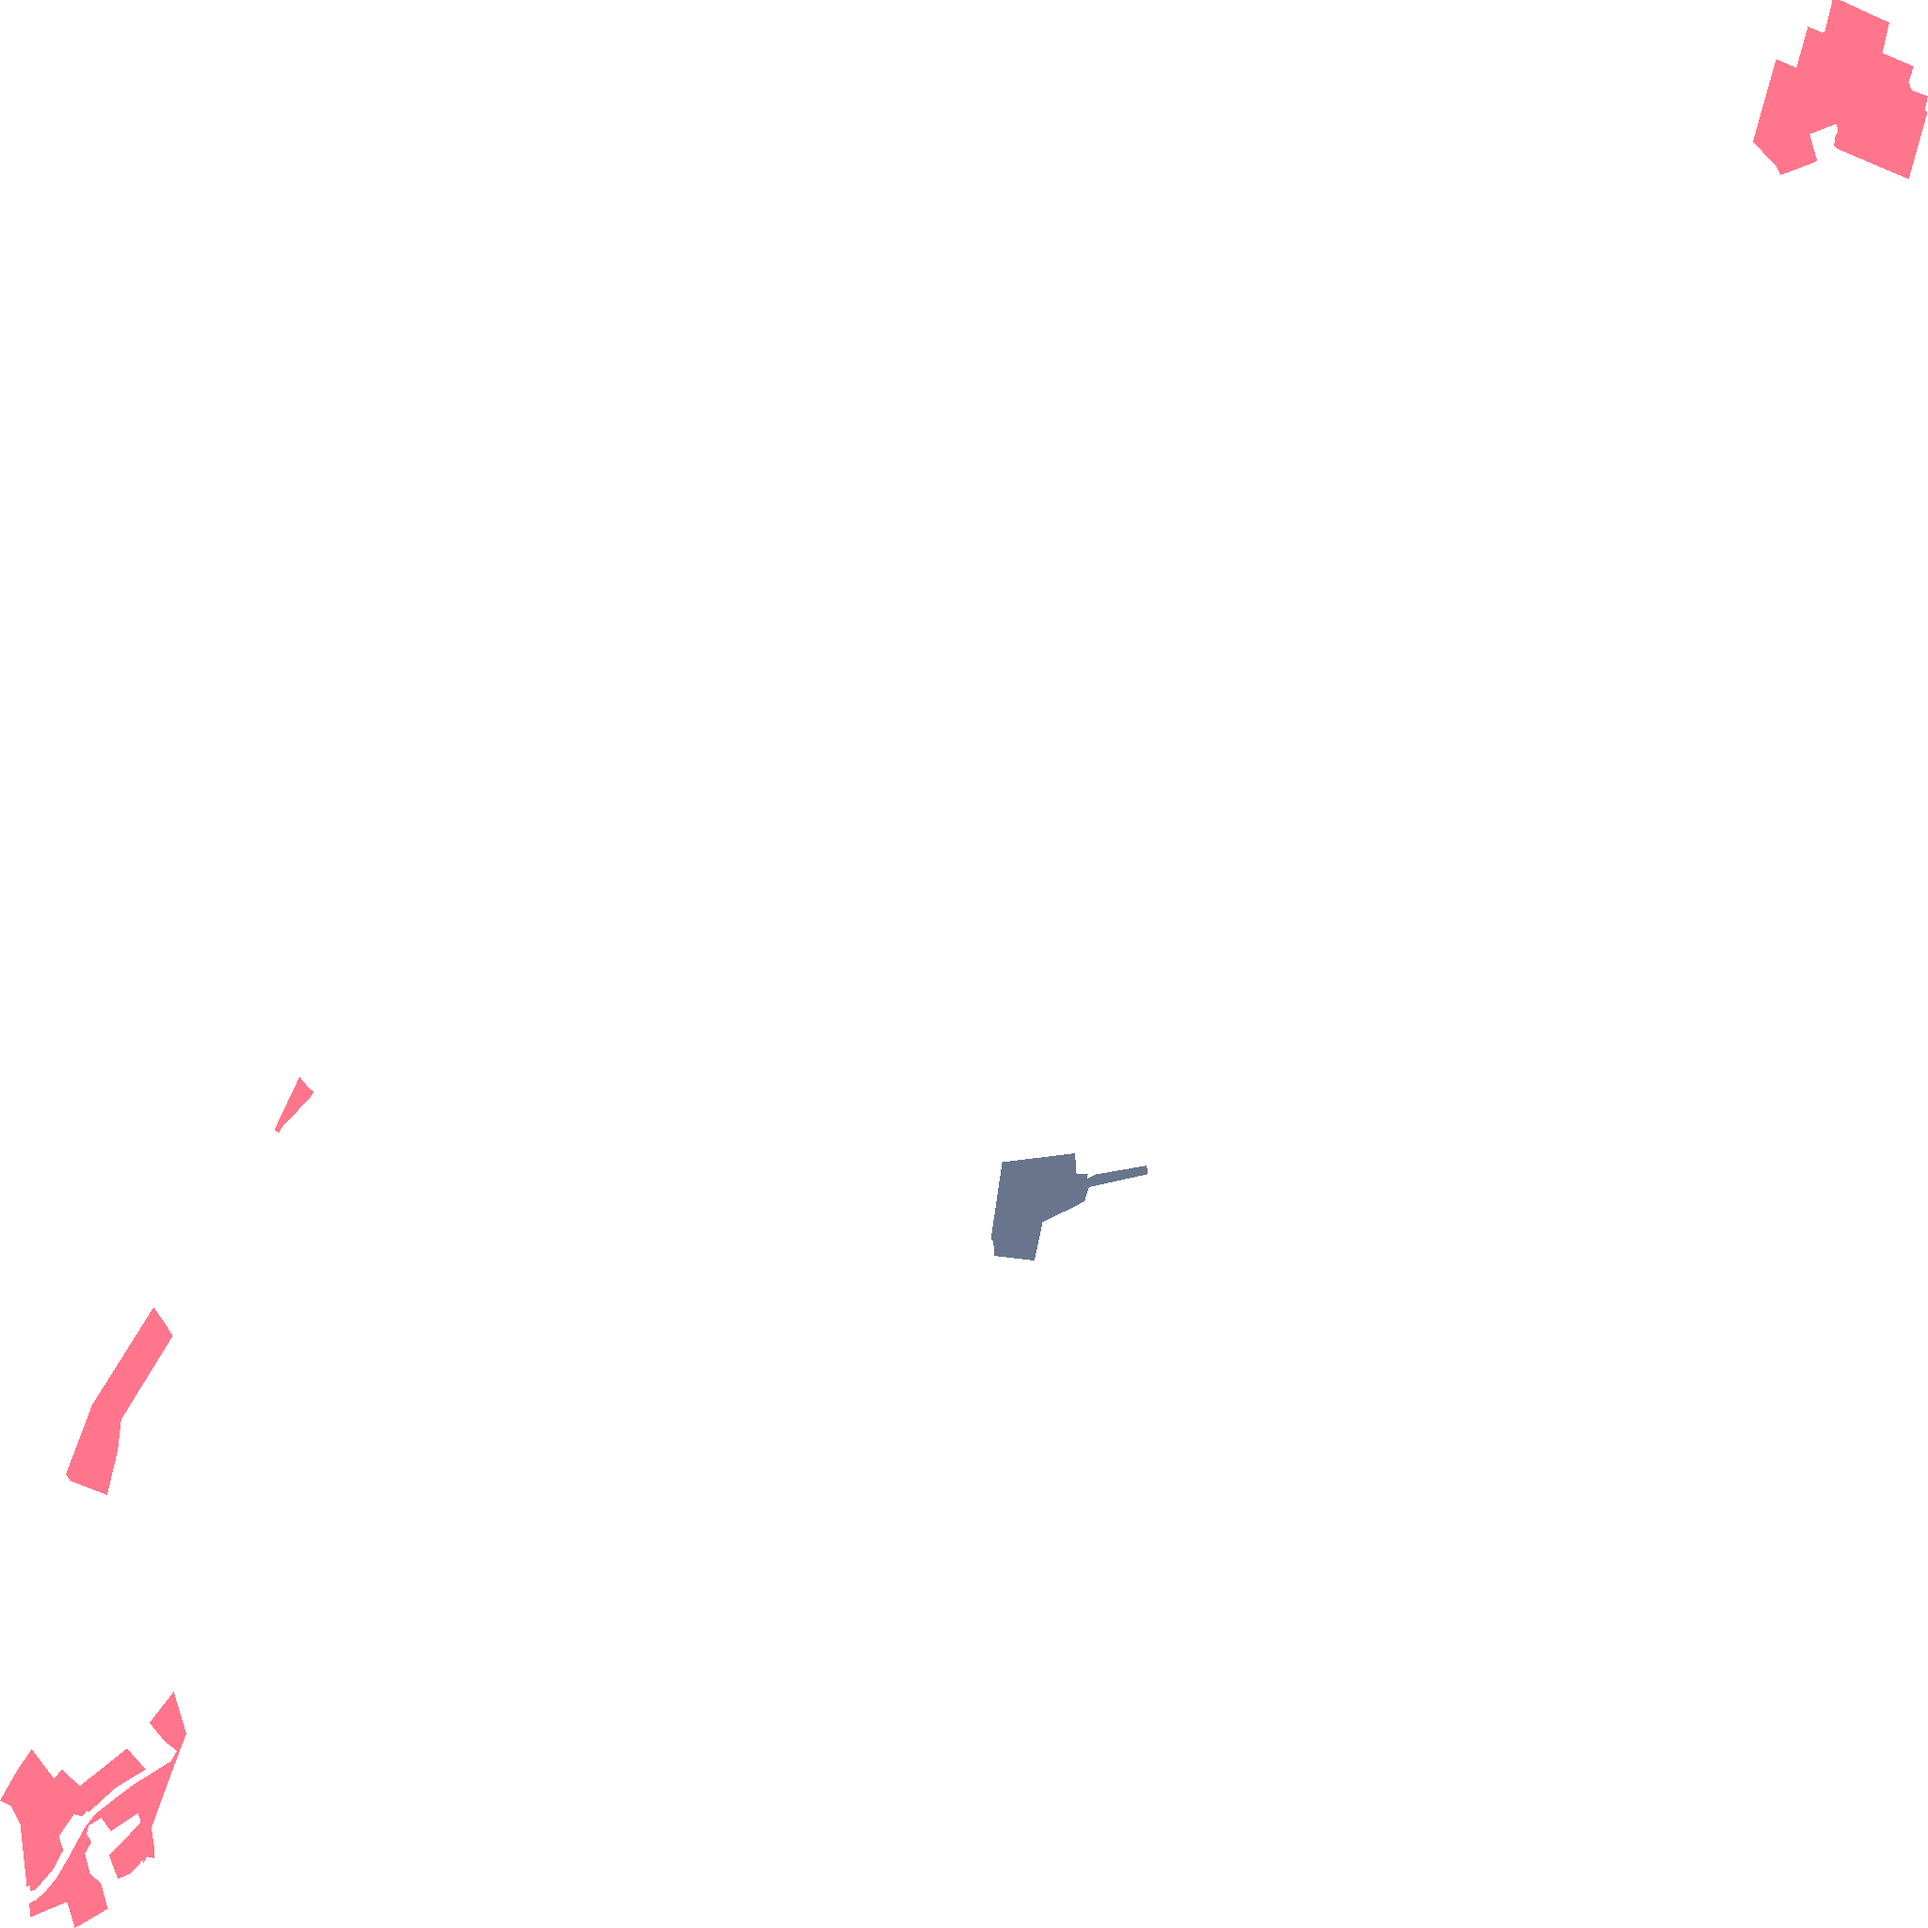
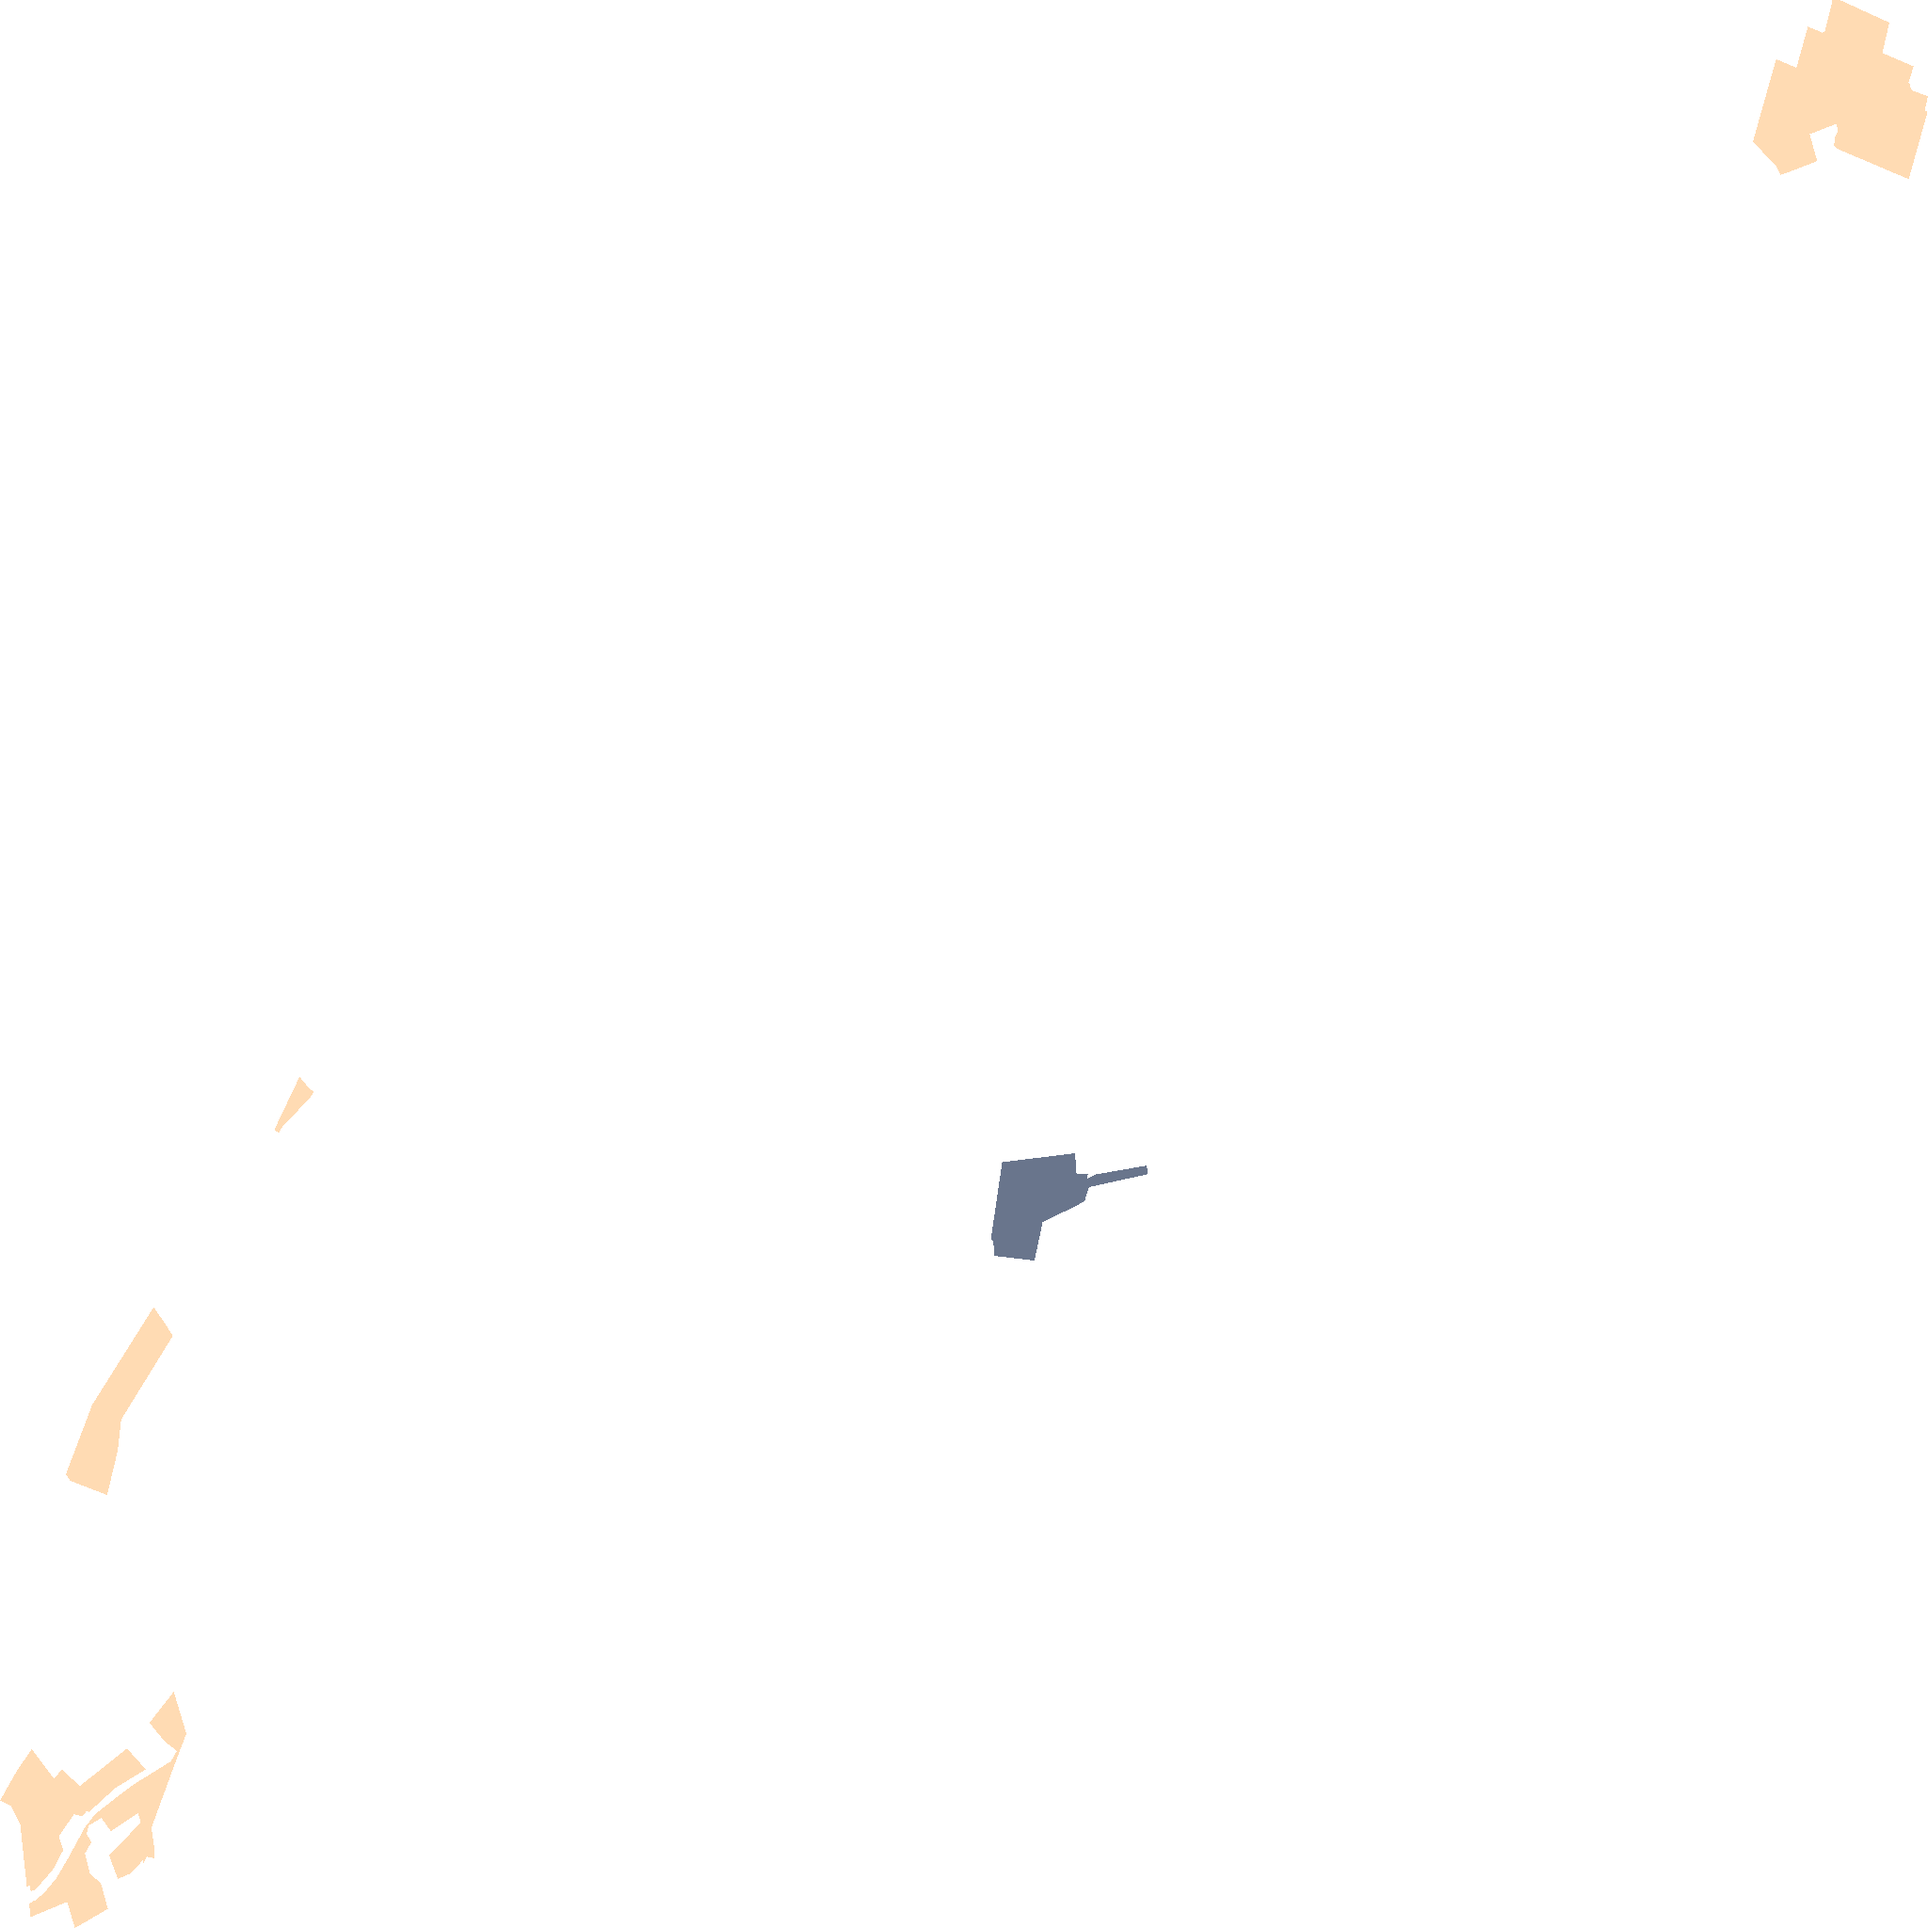
Karte p_515

diff --git a/p_515.html b/p_515.html
@@ -128,8 +128,9 @@
 <body>
     <div id="map"></div>
     <div id="legend">
-        <div><span style="display:inline-block; width:20px; height:10px; background:#FF7F00; margin-right:5px;"></span>Ausbauphase 1: Ausbau bei ausreichender Nachfrage</div>
+        <div><span style="display:inline-block; width:20px; height:10px; background:#FF7F00; margin-right:5px;"></span>Ausbauphase 1: Glasfasernetz vorhanden oder geplant</div>
         <div><span style="display:inline-block;width:20px; height:10px; background:#00143C; margin-right:5px;"></span>Ausbauphase 2: Interessenbekundung möglich</div>
+        <div><span style="display:inline-block;width:20px; height:10px; background:#FFC17D; margin-right:5px;"></span>Ausbauphase 3: Gefördertes Ausbaugebiet </div>
     </div>
     <script>
     const bounds = [[51.641866648, 7.781767935], [51.679249794, 7.857963862]];
